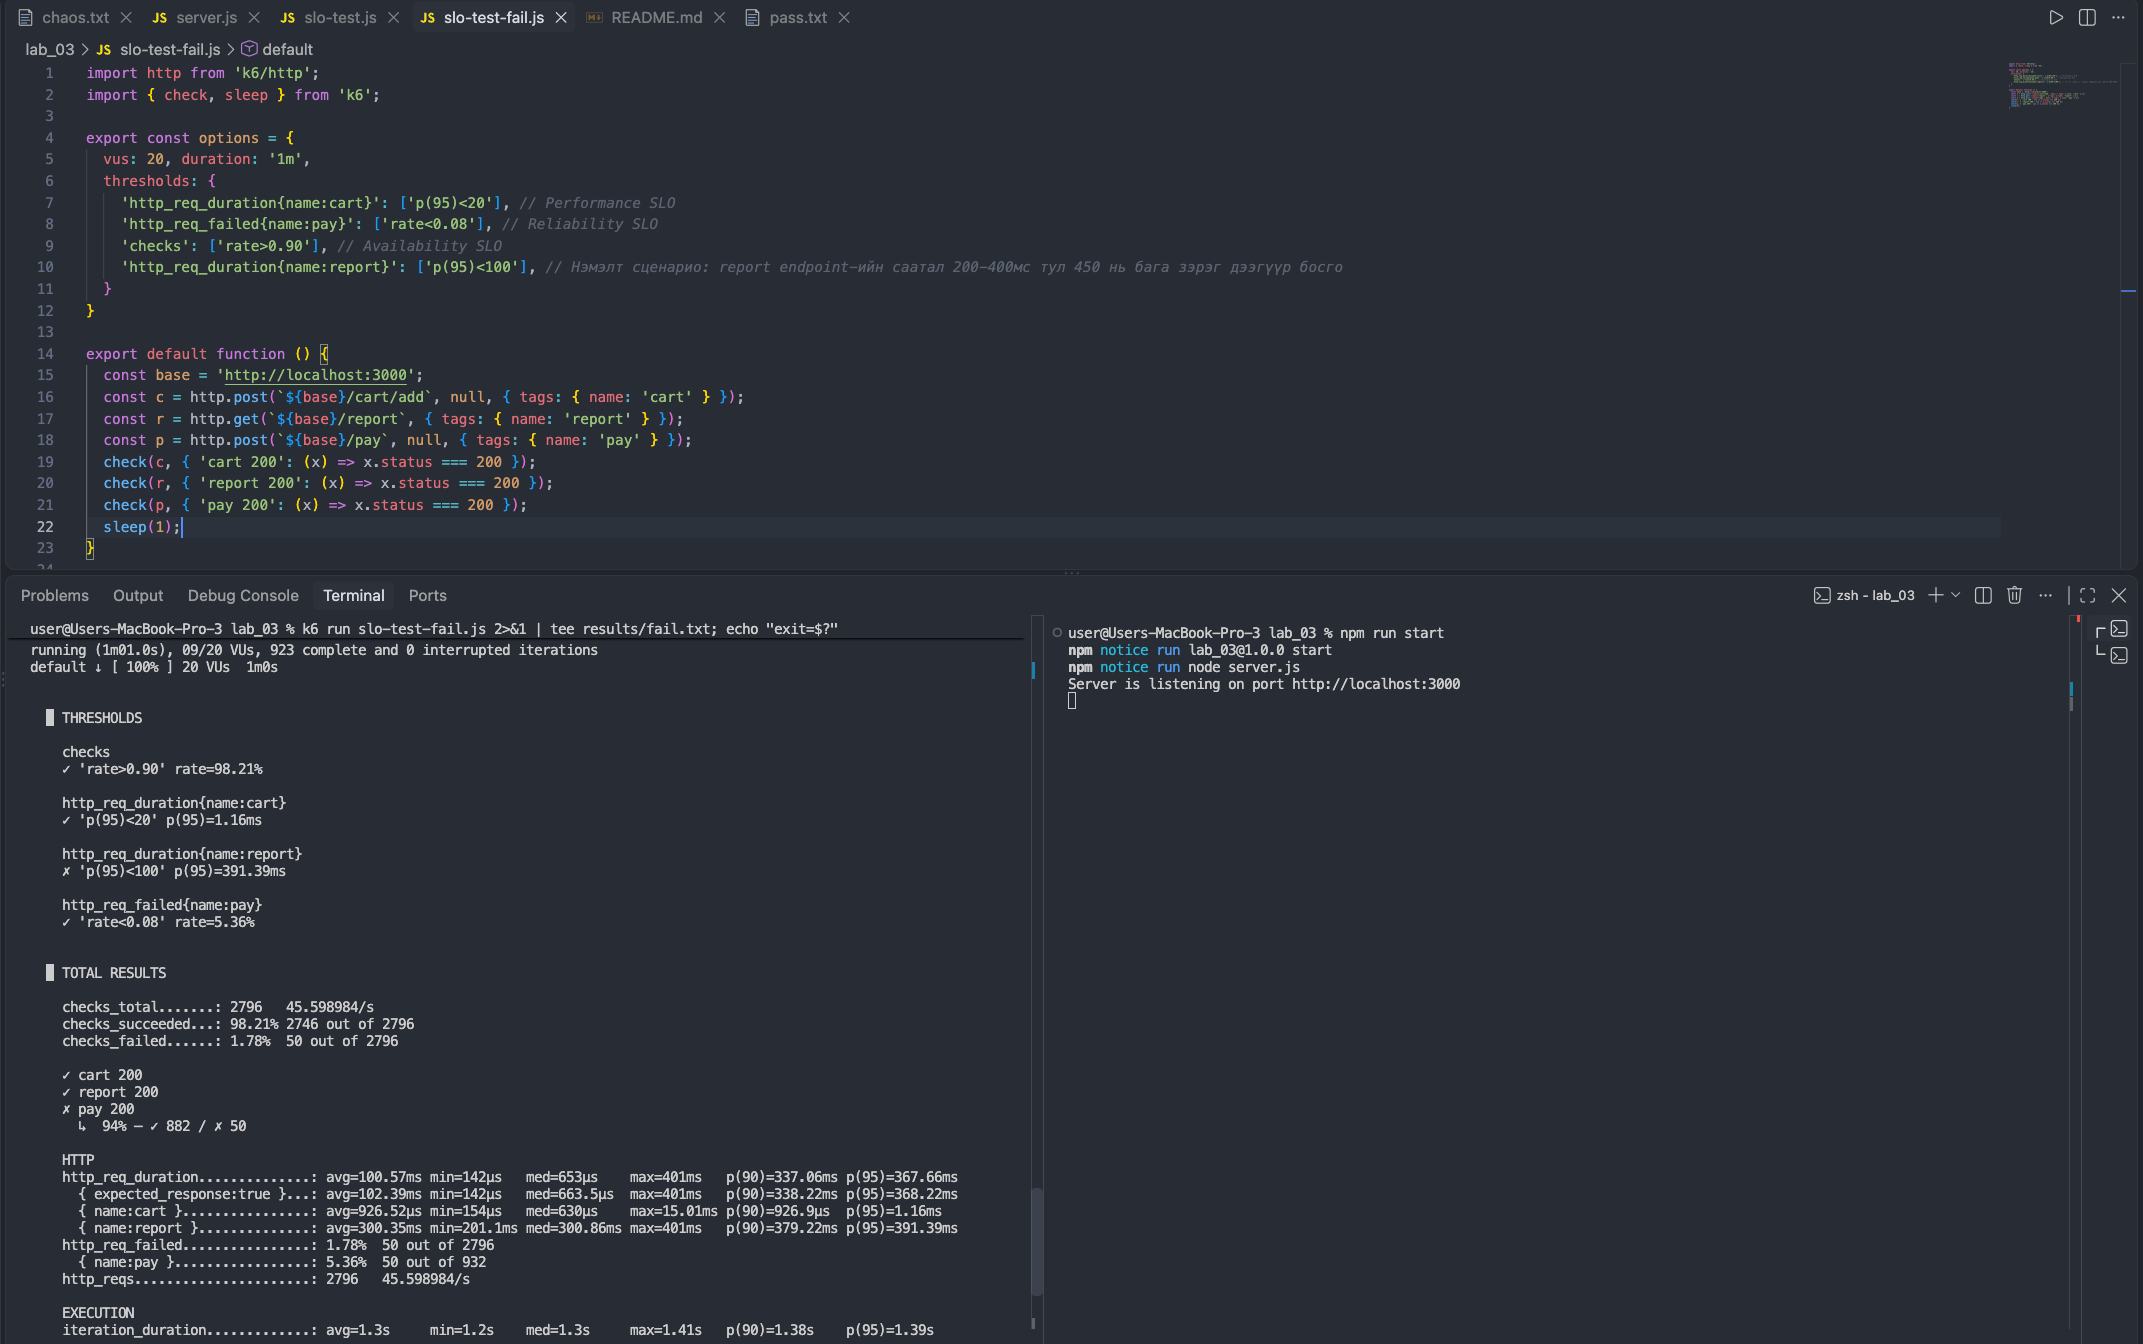
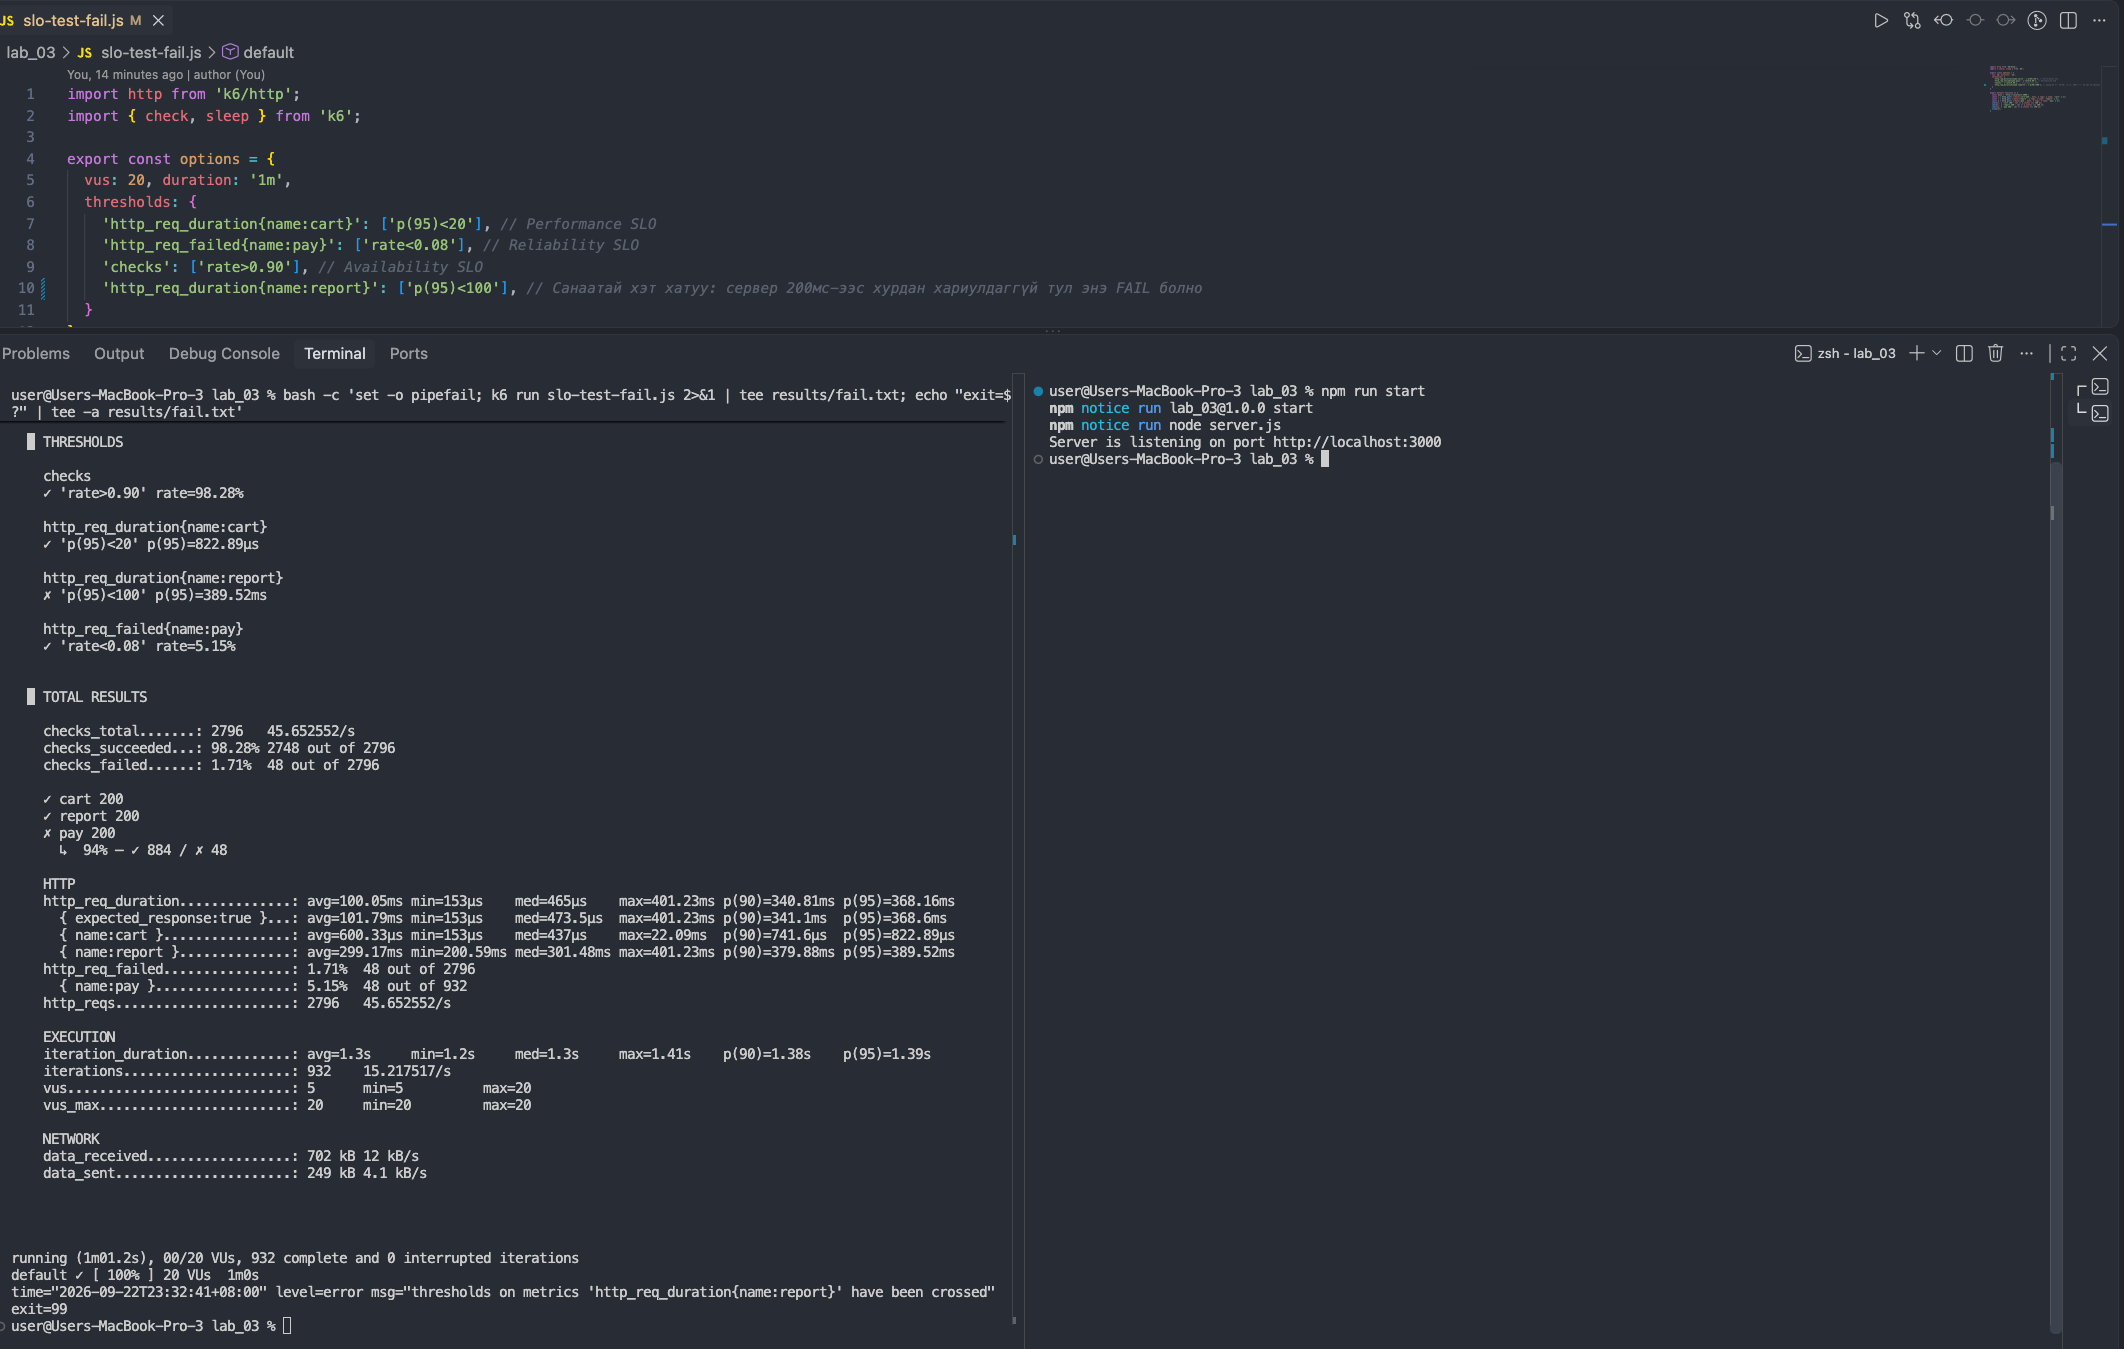
lab_03: fail test update

diff --git a/lab_03/slo-test-fail.js b/lab_03/slo-test-fail.js
@@ -7,7 +7,7 @@ export const options = {
     'http_req_duration{name:cart}': ['p(95)<20'], // Performance SLO
     'http_req_failed{name:pay}': ['rate<0.08'], // Reliability SLO
     'checks': ['rate>0.90'], // Availability SLO
-    'http_req_duration{name:report}': ['p(95)<100'], // Нэмэлт сценарио: report endpoint-ийн саатал 200-400мс тул 450 нь бага зэрэг дээгүүр босго
+    'http_req_duration{name:report}': ['p(95)<100'], // Санаатай хэт хатуу: сервер 200мс-ээс хурдан хариулдаггүй тул энэ FAIL болно
   }
 }
 
